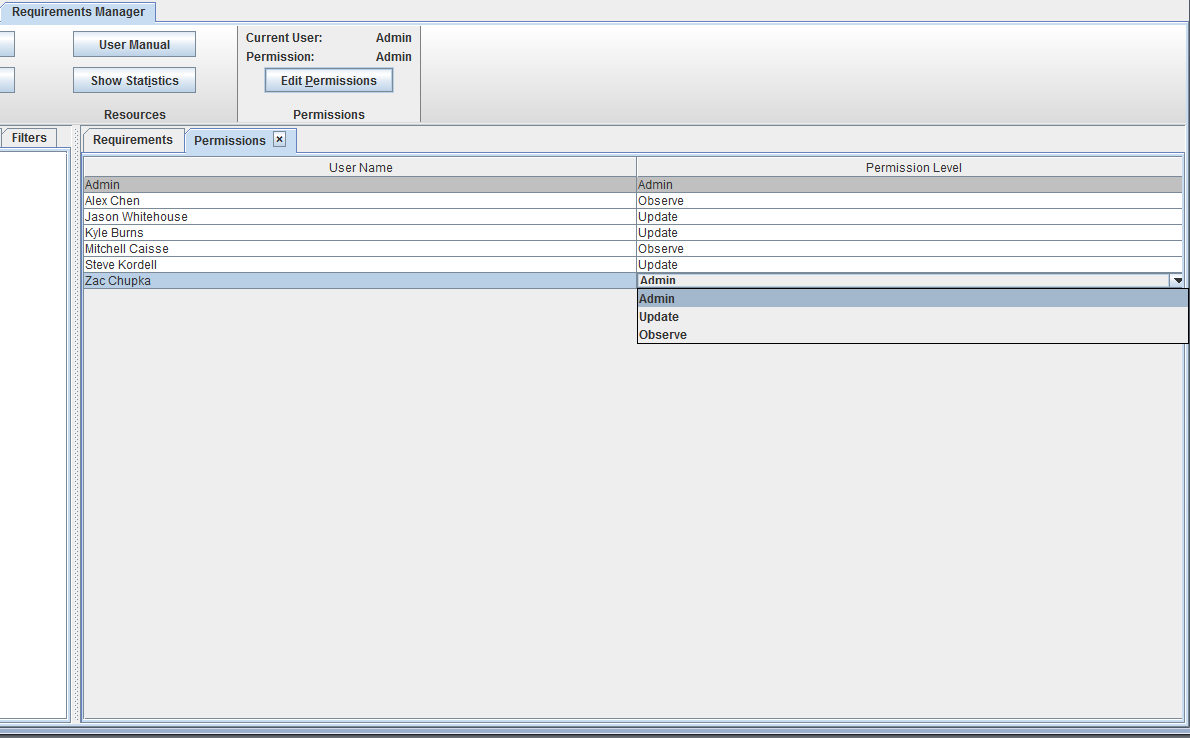
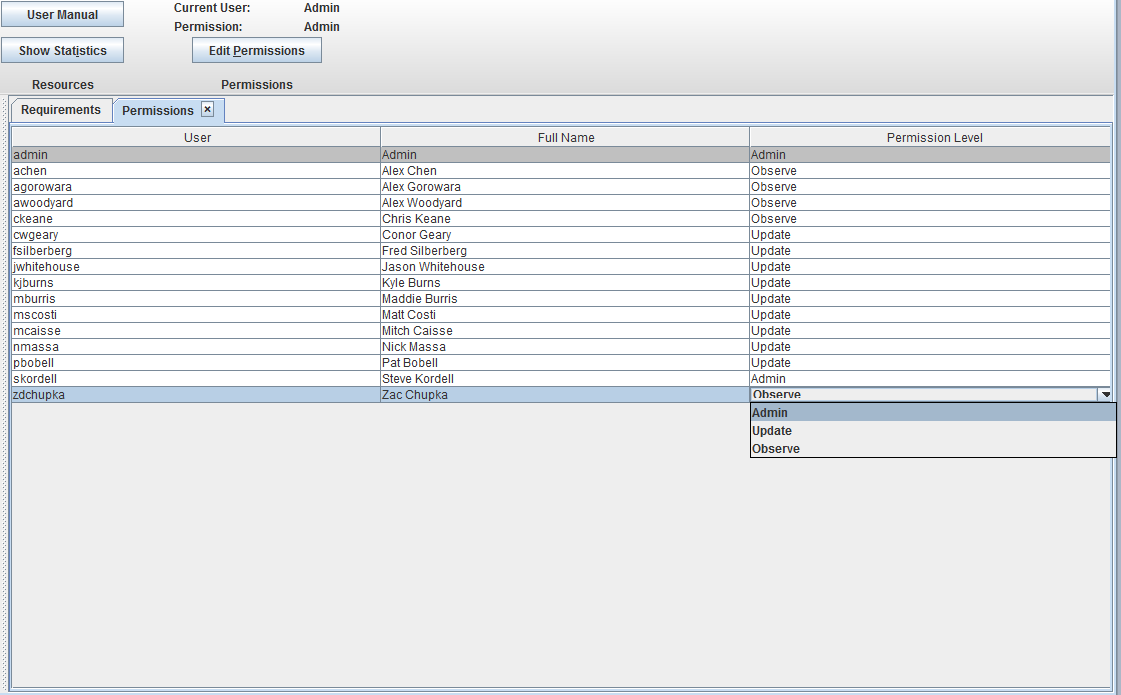
Added instructions for search bar in manual. Updated a few pictures and files to reflect current project.

Changed region(s): [[0.0, 0.0, 1.0, 1.0]]

diff --git a/Core/WPISuite/WebContent/Documentation/data/Editing_Fields_From_Table.html b/Core/WPISuite/WebContent/Documentation/data/Editing_Fields_From_Table.html
@@ -1,0 +1,23 @@
+<h3>Editing Fields from Table View</h3>
+<hr />
+<p>
+You may want to quickly edit fields for requirements in the table view without having to open each individual Requirement in edit view.
+
+<ul>
+	<li>Click the &quot;Enable Editing&quot; button located on the bottom of the Requirements tab</li>
+	<li>You may double click on the field for any Requirement that you want to edit</li>
+	<li>Some fields have a drop down menu to choose options</li>
+	<li>You may click off of the field to deselect or choose another Requirement to edit by repeating the last two steps</li>
+	<li>To save your changes, simply click the &quot;Save Changes&quot; at the bottom of the table view</li>
+	<li>To discard your changes, click the &quot;Discard Changes&quot; button located at the bottom of the table view</li>
+</ul>
+</p>
+
+<div class= "note" >Fields you may not edit will be grayed out and fields that have been edited will be highlighted in yellow.
+	</div>
+
+<div class="figure" style="text-align:center">
+	<font size = -2>Click image to enlarge</font><br>
+	<img src="" data-path="images/EditFields.png" width="50%"/>
+	<br><font size = -2>Mutiple fields have been edited</font>
+</div>

diff --git a/Core/WPISuite/WebContent/Documentation/data/Search_Requirements_By_Name.html b/Core/WPISuite/WebContent/Documentation/data/Search_Requirements_By_Name.html
@@ -1,0 +1,17 @@
+<h3>Search Requirements By Name</h3>
+<hr />
+<p>
+	You may search for requirements by their name in the table view. There is a small text box in the lower right corner of the Requirements manager where you may enter the name of a specific requirement you wish to search for.
+
+	<div class="figure" style="text-align:center">
+	<font size = -2>Click image to enlarge</font><br>
+	<img src="" data-path="images/SearchBar.png" width="15%"/>
+	<br><font size = -2>Add text so search for requirements by name</font><br><br></div>
+ 
+	As you start typing in the search bar, the list of requirements will actively filter out the requirements. The list will now show the requirements with the names that start with the text you typed in the search bar. To get a full list of requirements back, delete the content in the search bar.
+
+	<div class="figure" style="text-align:center">
+	<font size = -2>Click image to enlarge</font><br>
+	<img src="" data-path="images/SearchBarActive.png" width="60%"/>
+	<br><font size = -2>The search is now active</font><br><br></div>
+</p>

diff --git a/Core/WPISuite/WebContent/Documentation/data/Admin/Permissions.html b/Core/WPISuite/WebContent/Documentation/data/Admin/Permissions.html
@@ -13,7 +13,7 @@
 	<li><b>Observer:</b> users with the observer permission may not edit anything in the Requirements Manager until their permission is changed. They may only view</li>
 
 	<br><br><FONT SIZE="5"><b>Editing Permissions</b></FONT><br><br>
-	<li>Click the &quot;Edit Permissions&quot; button in the main Requirments Manager view. You will see a list of users and their current permissions</li>
+	<li>Click the &quot;Edit Permissions&quot; button in the main Requirments Manager view. You will see a list of users, their full name, and their current permissions</li>
 	<li>Next to the user whose permission you desire to change, select the row that contains the name of the desired user.</li>
 	<li>Click on the right side of the table to open a drop down menu of the available</li>
 	<li>Select the new permission for the user.  Changes are saved automatically.</li>

diff --git a/Core/WPISuite/WebContent/Documentation/data/Iterations/Editing_an_Iteration.html b/Core/WPISuite/WebContent/Documentation/data/Iterations/Editing_an_Iteration.html
@@ -7,10 +7,13 @@ To edit an iteration:
 	<li>Select an iteration you wish to edit in the requirements tree view, located on the left side.</li>
 	<li>Right click and select &quot;Edit Iteration&quot;</li>
 	<li>Edit the name and/or date fields to reflect the updated information, making sure that all requirements of an iteration are still met</li>
-	<li>Click the save button at the bottom of the page</li>
+	<li>Click the save button at the bottom of the page</li><br>
+
+	<div class= "note" >A progress bar will be displayed with the current completion percentage for the iteration.
+	</div>
 </ul>
 </p>
 
 <div class="figure" style="text-align:center">
-	<img src="" data-path="images/NewIter.png" style="zoom: 70%"/>
+	<img src="" data-path="images/EditIter.png" style="zoom: 70%"/>
 </div>

diff --git a/Core/WPISuite/WebContent/Documentation/data/Iterations/Creating_an_Iteration.html b/Core/WPISuite/WebContent/Documentation/data/Iterations/Creating_an_Iteration.html
@@ -9,9 +9,9 @@ To create an iteration:
 	Right click the white space in the tree view and click &quot;New Iteration&quot;</li>
 	<li>Fill in the required fields</li>
 	<ul>
-		<li><b>Name*<b> - The name of the iteration</li>
-		<li><b>Start Date*<b> - The starting date of the iteration</li>
-		<li><b>End Date*<b> - The ending date of the iteration</li>
+		<li><b>Name*</b> - The name of the iteration</li>
+		<li><b>Start Date*</b> - The starting date of the iteration</li>
+		<li><b>End Date*</b> - The ending date of the iteration</li>
 		<li>The end date must be later than the start date,
 		 and the time segment cannot overlap with other iterations</li>
 		 </ul>

diff --git a/Core/WPISuite/WebContent/Documentation/js/data.js b/Core/WPISuite/WebContent/Documentation/js/data.js
@@ -86,13 +86,17 @@ var data = [
     				id: 52
     			}]
     		},   
+    	{label: 'Search Requirements By Name',
+    	folder: false,
+    	id: 120
+    	},
+    	{label: 'Editing Fields From Table',
+    	folder: false,
+    	id: 7
+    	},
         {label: 'Viewing Statistics',
     	folder: false,
     	id: 6
-    	},
-    	{label: 'Editing Estimates',
-    	folder: false,
-    	id: 7
     	},
     	{label: 'Sort Requirements',
     	folder: false,
